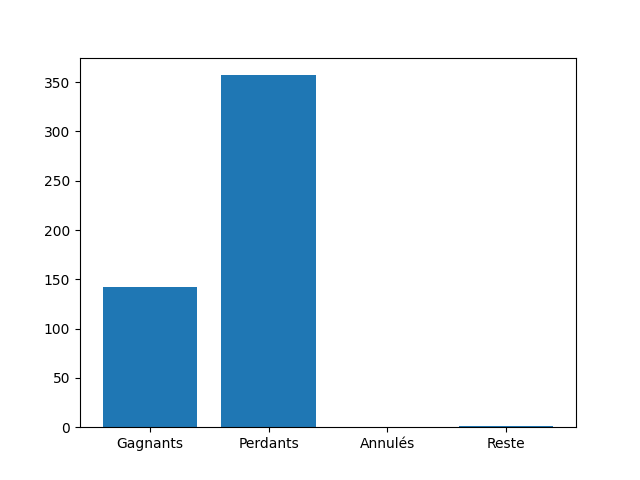
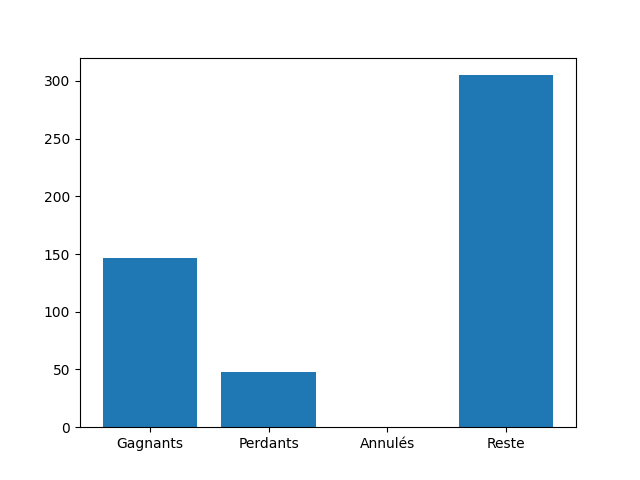
poisson process implemented

diff --git a/main.py b/main.py
@@ -11,12 +11,10 @@ from Structure import Structure
 from graphs import *
 from Model import Model
 
-#46 11 22 went in the first simu but was not worth
-
 
 min_group_size=5
 
-new_scenario = True
+new_scenario = False
 
 use_model = False
 save_model = use_model
@@ -30,6 +28,11 @@ step_length = 0.2
 
 num_cyclists = 500
 max_num_cyclists_same_time = 50
+poisson_lambda = 0.1
+
+poisson_distrib = np.random.poisson(poisson_lambda, 10000)
+while(sum(poisson_distrib)<num_cyclists):
+    poisson_distrib = np.random.poisson(poisson_lambda, 10000)
 
 if(use_model):
     sub_folders = "w_model/"
@@ -47,7 +50,7 @@ else:
     sys.exit("please declare environment variable 'SUMO_HOME'")
 
 sumoBinary = "/usr/bin/sumo-gui"
-sumoCmd = [sumoBinary, "-c", "sumo_files/sumo.sumocfg", "--waiting-time-memory", '10000', '--start', '--delay', '0', '--step-length', str(step_length), '--no-warnings']
+sumoCmd = [sumoBinary, "-c", "sumo_files/sumo.sumocfg", "--quit-on-end", "--waiting-time-memory", '10000', '--start', '--delay', '0', '--step-length', str(step_length), '--no-warnings']
 
 
 import traci
@@ -57,7 +60,7 @@ import traci.constants as tc
 
 def spawn_cyclist(id, step, path, net, structure, step_length, max_speed):
     struct_candidate = True
-    if(new_scenario or num_cyclists-id+len(structure.id_cyclists_waiting)<structure.min_group_size):
+    if(new_scenario or num_cyclists-id+max(len(structure.id_cyclists_waiting), len(traci.edge.getLastStepVehicleIDs(structure.start_edge.getID())))<structure.min_group_size):
         struct_candidate = False
     
     c = Cyclist(str(id), step, path, net, structure, max_speed, traci, sumolib, step_length, struct_candidate=struct_candidate)
@@ -105,59 +108,56 @@ open=not new_scenario, min_group_size=min_group_size, batch_size=batch_size, lea
 id = 0
 step = 0
 
-try :
-    while(len(dict_cyclists) != 0 or id<num_cyclists):
-        if(new_scenario):
-            if(id<num_cyclists and randint(0, 100) == 0):
-                if(len(dict_cyclists)<max_num_cyclists_same_time):
-                    e1 = net.getEdge("E0")
-                    e2 = net.getEdge("E3")#+str(randint(4, 9)))
-                    path = net.getShortestPath(e1, e2, vClass='bicycle')[0]
-                    max_speed = np.random.normal(15, 3)
-                    tab_scenario.append({"start_step": step, "start_edge": e1, "end_edge": e2, "max_speed": max_speed, "finish_step": -1})
-                    spawn_cyclist(id, step, path, net, structure, step_length, max_speed)
-                    id+=1
-
-        elif(id<len(tab_scenario) and step >= tab_scenario[id]["start_step"]):
-                e1=tab_scenario[id]["start_edge"]
-                e2=tab_scenario[id]["end_edge"]
+while(len(dict_cyclists) != 0 or id<num_cyclists):
+    if(new_scenario):
+        if(id<num_cyclists and poisson_distrib[int(step)] != 0):
+            if(len(dict_cyclists)<max_num_cyclists_same_time):
+                poisson_distrib[int(step)] = 0
+                e1 = net.getEdge("E0")
+                e2 = net.getEdge("E3")#+str(randint(4, 9)))
                 path = net.getShortestPath(e1, e2, vClass='bicycle')[0]
-                spawn_cyclist(id, step, path, net, structure, step_length, tab_scenario[id]["max_speed"])
+                max_speed = np.random.normal(15, 3)
+                tab_scenario.append({"start_step": step, "start_edge": e1, "end_edge": e2, "max_speed": max_speed, "finish_step": -1})
+                spawn_cyclist(id, step, path, net, structure, step_length, max_speed)
                 id+=1
 
-        traci.simulationStep() 
+    elif(id<len(tab_scenario) and step >= tab_scenario[id]["start_step"]):
+            e1=tab_scenario[id]["start_edge"]
+            e2=tab_scenario[id]["end_edge"]
+            path = net.getShortestPath(e1, e2, vClass='bicycle')[0]
+            spawn_cyclist(id, step, path, net, structure, step_length, tab_scenario[id]["max_speed"])
+            id+=1
 
-        for i in copy.deepcopy(list(dict_cyclists.keys())):
-            dict_cyclists[i].step(step)
-            if(not dict_cyclists[i].alive):
-                if(dict_cyclists[i].finish_step > 0):
-                    dict_cyclists_arrived[i] = dict_cyclists[i]
-                    target = None
-                    if(i in structure.dict_model_input and target != None):
-                        structure.list_input_to_learn.append(structure.dict_model_input[i])
-                        structure.list_target.append(target)                  
-                        del structure.dict_model_input[i]
+    traci.simulationStep() 
 
-                    if(new_scenario):
-                        tab_scenario[int(dict_cyclists[i].id)]["finish_step"] = step
-                        tab_scenario[int(dict_cyclists[i].id)]["waiting_time"] = dict_cyclists[i].waiting_time
-                        tab_scenario[int(dict_cyclists[i].id)]["distance_travelled"] = dict_cyclists[i].distance_travelled
-                        
-                else:
-                    traci.vehicle.remove(i)
-                del dict_cyclists[i]
+    for i in copy.deepcopy(list(dict_cyclists.keys())):
+        dict_cyclists[i].step(step)
+        if(not dict_cyclists[i].alive):
+            if(dict_cyclists[i].finish_step > 0):
+                dict_cyclists_arrived[i] = dict_cyclists[i]
+                target = None
+                if(i in structure.dict_model_input and target != None):
+                    structure.list_input_to_learn.append(structure.dict_model_input[i])
+                    structure.list_target.append(target)                  
+                    del structure.dict_model_input[i]
 
-        #(step%1, step%1<=step_length)
-        if(structure.open):
-            structure.step(step, edges)
+                if(new_scenario):
+                    tab_scenario[int(dict_cyclists[i].id)]["finish_step"] = step
+                    tab_scenario[int(dict_cyclists[i].id)]["waiting_time"] = dict_cyclists[i].waiting_time
+                    tab_scenario[int(dict_cyclists[i].id)]["distance_travelled"] = dict_cyclists[i].distance_travelled
+                    
+            else:
+                traci.vehicle.remove(i)
+            del dict_cyclists[i]
 
-        print("\rStep {}: {} cyclists in simu, {} cyclists spawned since start."\
-        .format(int(step), len(traci.vehicle.getIDList()), id), end="")
+    #(step%1, step%1<=step_length)
+    if(structure.open):
+        structure.step(step, edges)
 
-        step += step_length
+    print(f"\rStep {int(step)}: {len(traci.vehicle.getIDList())} cyclists in simu, {id} cyclists spawned since start,\
+{structure.num_cyclists_crossed} cyclists crossed the struct.", end="")
 
-except traci.exceptions.FatalTraCIError:
-    pass
+    step += step_length
 
 if(new_scenario):
     print("WARNING: Saving scenario...")
@@ -193,8 +193,14 @@ if(not new_scenario):
         mean_diff_finish_step = 0
     else:
         mean_diff_finish_step = sum_diff_finish_step/num_diff_finish_step
+
+
+    if(len(tab_diff_finish_step[-1]) == 0):
+        mean_diff_finish_step_others = 0
+    else:
+        mean_diff_finish_step_others = sum(tab_diff_finish_step[-1])/len(tab_diff_finish_step[-1])
     
-    print("mean finish time diff for users of struct:", mean_diff_finish_step, ", for others:", sum(tab_diff_finish_step[-1])/len(tab_diff_finish_step[-1]))
+    print("mean finish time diff for users of struct:", mean_diff_finish_step, ", for others:",mean_diff_finish_step_others)
 
 
     if(structure.open):
@@ -209,7 +215,7 @@ if(not new_scenario):
 
         if(learning):
             
-            if(not os.path.exists("files/"+sub_folders)):files
+            if(not os.path.exists("files/"+sub_folders)):
                 os.makedirs("files/"+sub_folders)
                 tab_num_cycl = [[], []]
                 tab_time_diff = []

diff --git a/Structure.py b/Structure.py
@@ -44,6 +44,12 @@ class Structure:
 
         self.open = open
 
+        for e in self.path:
+            tls = self.net.getEdge(e).getTLS()
+            if(tls):
+                self.module_traci.trafficlight.setPhase(tls.getID(), 2)
+
+
 
     def step(self, step, edges):
         #print(step, self.id_cyclists_waiting, self.id_cyclists_crossing_struct)
@@ -56,13 +62,20 @@ class Structure:
         for i in self.module_traci.edge.getLastStepVehicleIDs(self.start_edge.getID()):
             if(i not in self.id_cyclists_waiting and i not in self.id_cyclists_crossing_struct and self.dict_cyclists[i].struct_candidate):
                 if(len(self.id_cyclists_waiting)==0):
-                    if(self.module_traci.vehicle.getSpeed(i)<= 1):
+                    for j in range(len(self.id_cyclists_crossing_struct)-1, -1, -1):
+                        pos = self.module_traci.vehicle.getPosition(self.id_cyclists_crossing_struct[j])
+                        if(self.module_traci.vehicle.getDrivingDistance2D(i, pos[0], pos[1])<=3):
+                            self.id_cyclists_waiting.append(i)
+                            self.dict_cyclists[i].step_cancel_struct_candidature = step+99999
+                            break
+                    if(i not in self.id_cyclists_waiting and self.module_traci.vehicle.getSpeed(i)<= 3):
                         self.id_cyclists_waiting.append(i)
                         self.dict_cyclists[i].step_cancel_struct_candidature = step+99999
+                    
                 else:
                     for j in range(len(self.id_cyclists_waiting)-1, -1, -1):
                         pos = self.module_traci.vehicle.getPosition(self.id_cyclists_waiting[j])
-                        if(self.module_traci.vehicle.getDrivingDistance2D(i, pos[0], pos[1])<2):
+                        if(self.module_traci.vehicle.getDrivingDistance2D(i, pos[0], pos[1])<=3):
                             self.id_cyclists_waiting.append(i)
                             self.dict_cyclists[i].step_cancel_struct_candidature = step+99999
                             break
@@ -76,7 +89,6 @@ class Structure:
                     min_max_speed = self.dict_cyclists[i].max_speed
                 #print(i, "crossing")
                 self.id_cyclists_crossing_struct.append(i)
-                self.num_cyclists_crossed += 1
             self.id_cyclists_waiting = []
 
             for i in self.id_cyclists_crossing_struct:
@@ -90,8 +102,13 @@ class Structure:
                 for i in self.id_cyclists_waiting:
                     self.id_cyclists_crossing_struct.append(i)
                     self.dict_cyclists[i].cross_struct()
-                    self.dict_cyclists[i].set_max_speed(self.dict_cyclists[self.id_cyclists_crossing_struct[0]].max_speed)
+                    self.dict_cyclists[i].set_max_speed(self.dict_cyclists[self.id_cyclists_crossing_struct[0]].max_speed)                  
                     self.id_cyclists_waiting.remove(i)
+
+
+        for i in self.id_cyclists_waiting:
+            if(i not in self.module_traci.edge.getLastStepVehicleIDs(self.start_edge.getID())):
+                self.id_cyclists_waiting.remove(i)
             
         for e in self.path:
             tls = self.net.getEdge(e).getTLS()
@@ -104,8 +121,7 @@ class Structure:
                         ind += 1
                 light_color = self.module_traci.trafficlight.getRedYellowGreenState(tls.getID())[ind]
 
-                if(set(self.module_traci.edge.getLastStepVehicleIDs(e)) & set(self.id_cyclists_crossing_struct) and\
-                len(self.module_traci.edge.getLastStepVehicleIDs(e)) >= self.min_group_size):
+                if(len(set(self.module_traci.edge.getLastStepVehicleIDs(e)) & set(self.id_cyclists_crossing_struct)) >= self.min_group_size):
                     if(light_color == 'r'):
                         self.module_traci.trafficlight.setPhase(tls.getID(), (self.module_traci.trafficlight.getPhase(tls.getID())+1)%4)
                     elif(light_color == "g" or light_color == "G"):

diff --git a/Cyclist.py b/Cyclist.py
@@ -17,7 +17,9 @@ class Cyclist:
         path = [e.getID() for e in path]
         self.original_path = path
         self.module_traci.route.add(str(self.id)+"_sp", path)
-        self.module_traci.vehicle.add(str(self.id), str(self.id)+"_sp", departLane="best", typeID='bicycle', departSpeed=traci.vehicletype.getMaxSpeed('bicycle')-1)
+        
+        d_speed = traci.vehicletype.getMaxSpeed('bicycle')-2
+        self.module_traci.vehicle.add(str(self.id), str(self.id)+"_sp", departLane="best", typeID='bicycle', departSpeed=d_speed)
         
         self.set_max_speed(max_speed)
         self.max_speed = self.module_traci.vehicle.getMaxSpeed(str(self.id))
@@ -91,11 +93,11 @@ class Cyclist:
             if(self.crossing_struct and self.actual_edge_id == self.last_edge_in_struct_id):
                 self.wanting_to_exit_struct = True
 
-            if(self.canceled_candidature):
+            if(self.crossing_struct):
                 self.module_traci.vehicle.highlight(self.id, color=(0, 0, 255, 255))
-            if(self.struct_crossed):
+            elif(self.struct_crossed):
                 self.module_traci.vehicle.highlight(self.id, color=(0, 255, 0, 255))
-            if(self.struct_candidate):
+            elif(self.struct_candidate):
                 self.module_traci.vehicle.highlight(self.id)
 
         elif(self.id in self.module_traci.simulation.getArrivedIDList()):
@@ -120,12 +122,13 @@ class Cyclist:
 
 
     def go_to_struct(self):
-        self.module_traci.vehicle.setStop(self.id, self.structure.start_edge.getID(), self.structure.start_edge.getLength()-1)
+        #self.module_traci.vehicle.setStop(self.id, self.structure.start_edge.getID(), self.structure.start_edge.getLength()-1)
         self.going_to_struct = True
 
     def cross_struct(self):
         self.going_to_struct = False
         self.crossing_struct = True
+        self.structure.num_cyclists_crossed += 1
         if(self.module_traci.vehicle.isStopped(self.id)):
             self.module_traci.vehicle.resume(self.id)
         if(self.module_traci.vehicle.getNextStops(self.id)):
